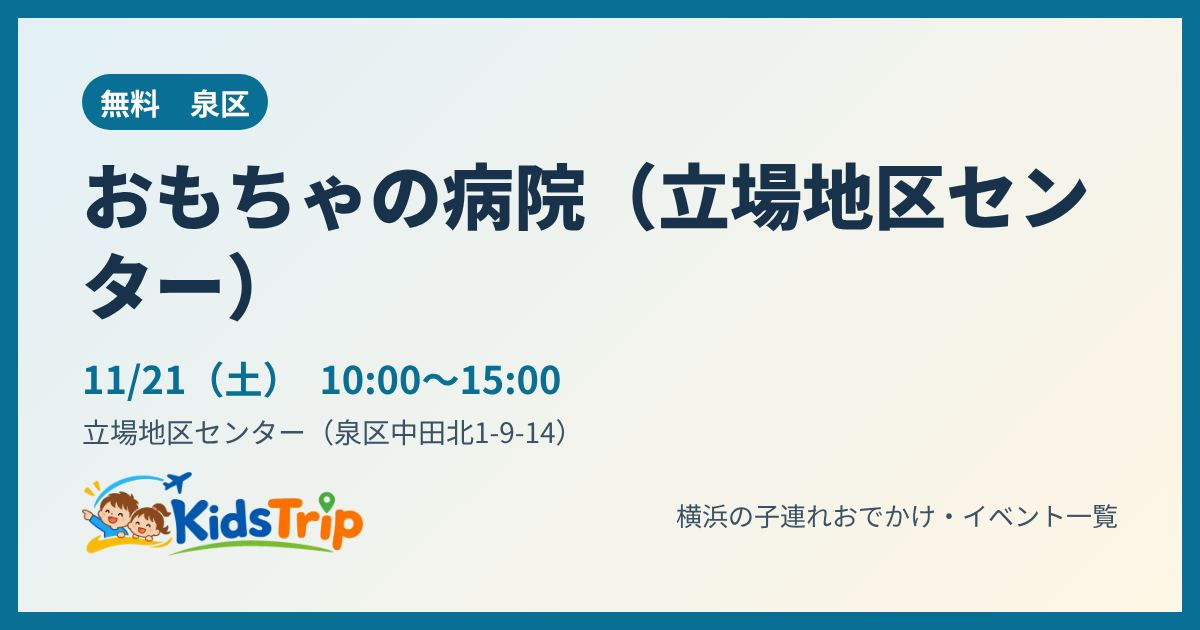
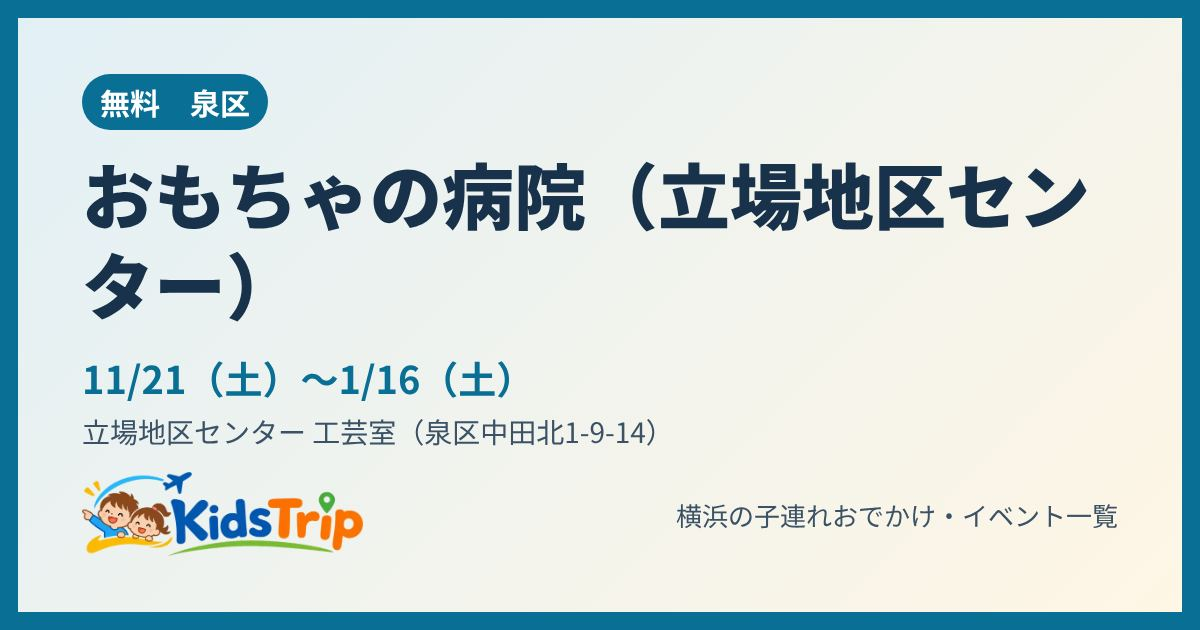
立場・本牧地区センターのイベントを利用者が送った公式の画面で確認（絵本だいすき12/17・おもちゃの病院1/16を追加、本牧まつりのプログラム）
Claude-Session: https://claude.ai/code/session_014AtJ2gk8Y7wNUEGdkodLXj

Changed region(s): [[0.2467, 0.6635, 0.555, 0.7238], [0.2467, 0.573, 0.4625, 0.6333]]

diff --git a/event/18agcb5/index.html b/event/18agcb5/index.html
@@ -4,24 +4,24 @@
 <meta charset="utf-8">
 <meta name="viewport" content="width=device-width, initial-scale=1">
 <title>おもちゃの病院（立場地区センター）（泉区）｜横浜の子連れイベント｜KidsTrip</title>
-<meta name="description" content="11月21日(土)　立場地区センター（泉区中田北1-9-14）。こわれたおもちゃを、おもちゃドクターが直してくれる日。">
+<meta name="description" content="11月21日(土)・1月16日(土)　立場地区センター 工芸室（泉区中田北1-9-14）。ボランティアのおもちゃドクターが、こわれたおもちゃを目の前で分解して、しくみを見せながら直してくれる。奇数月の第3土曜に開院。">
 <link rel="canonical" href="https://kidstrip.jp/event/18agcb5/">
 <meta property="og:type" content="article">
 <meta property="og:site_name" content="KidsTrip">
 <meta property="og:title" content="おもちゃの病院（立場地区センター）（泉区）｜横浜の子連れイベント｜KidsTrip">
-<meta property="og:description" content="11月21日(土)　立場地区センター（泉区中田北1-9-14）。こわれたおもちゃを、おもちゃドクターが直してくれる日。">
+<meta property="og:description" content="11月21日(土)・1月16日(土)　立場地区センター 工芸室（泉区中田北1-9-14）。ボランティアのおもちゃドクターが、こわれたおもちゃを目の前で分解して、しくみを見せながら直してくれる。奇数月の第3土曜に開院。">
 <meta property="og:url" content="https://kidstrip.jp/event/18agcb5/">
 <meta property="og:image" content="https://kidstrip.jp/og/18agcb5.jpg">
 <meta property="og:image:width" content="1200">
 <meta property="og:image:height" content="630">
-<meta property="og:image:alt" content="おもちゃの病院（立場地区センター）（11/21（土）・泉区）">
+<meta property="og:image:alt" content="おもちゃの病院（立場地区センター）（11/21（土）〜1/16（土）・泉区）">
 <meta name="twitter:card" content="summary_large_image">
 <link rel="icon" type="image/png" sizes="192x192" href="../../img/favicon-192.png">
 <link rel="icon" type="image/png" sizes="48x48" href="../../img/favicon-48.png">
 <link rel="icon" href="../../img/favicon.png">
 <link rel="apple-touch-icon" href="../../img/apple-touch-icon.png">
 <script type="application/ld+json">{"@context": "https://schema.org", "@type": "BreadcrumbList", "itemListElement": [{"@type": "ListItem", "position": 1, "name": "トップ", "item": "https://kidstrip.jp/"}, {"@type": "ListItem", "position": 2, "name": "イベント", "item": "https://kidstrip.jp/"}, {"@type": "ListItem", "position": 3, "name": "おもちゃの病院（立場地区センター）"}]}</script>
-<script type="application/ld+json">{"@context": "https://schema.org", "@type": "Event", "name": "おもちゃの病院（立場地区センター）", "startDate": "2026-11-21T10:00:00+09:00", "endDate": "2026-11-21", "eventStatus": "https://schema.org/EventScheduled", "eventAttendanceMode": "https://schema.org/OfflineEventAttendanceMode", "location": {"@type": "Place", "name": "立場地区センター（泉区中田北1-9-14）", "address": {"@type": "PostalAddress", "addressLocality": "横浜市泉区", "addressRegion": "神奈川県", "addressCountry": "JP"}}, "description": "こわれたおもちゃを、おもちゃドクターが直してくれる日。", "image": ["https://kidstrip.jp/og/18agcb5.jpg"], "url": "https://kidstrip.jp/event/18agcb5/", "isAccessibleForFree": true, "inLanguage": "ja", "offers": {"@type": "Offer", "price": 0, "priceCurrency": "JPY", "url": "https://tateba-c.com/%E3%82%A4%E3%83%99%E3%83%B3%E3%83%88%E6%A1%88%E5%86%85/", "availability": "https://schema.org/InStock"}}</script>
+<script type="application/ld+json">{"@context": "https://schema.org", "@type": "Event", "name": "おもちゃの病院（立場地区センター）", "startDate": "2026-11-21", "endDate": "2027-01-16", "eventStatus": "https://schema.org/EventScheduled", "eventAttendanceMode": "https://schema.org/OfflineEventAttendanceMode", "location": {"@type": "Place", "name": "立場地区センター 工芸室（泉区中田北1-9-14）", "address": {"@type": "PostalAddress", "addressLocality": "横浜市泉区", "addressRegion": "神奈川県", "addressCountry": "JP"}}, "description": "ボランティアのおもちゃドクターが、こわれたおもちゃを目の前で分解して、しくみを見せながら直してくれる。奇数月の第3土曜に開院。", "image": ["https://kidstrip.jp/og/18agcb5.jpg"], "url": "https://kidstrip.jp/event/18agcb5/", "isAccessibleForFree": true, "inLanguage": "ja", "offers": {"@type": "Offer", "price": 0, "priceCurrency": "JPY", "url": "https://tateba-c.com/%E3%82%A4%E3%83%99%E3%83%B3%E3%83%88%E6%A1%88%E5%86%85/", "availability": "https://schema.org/InStock"}}</script>
 <style>
 .gkcmp th[scope=row]{white-space:nowrap}.gkcmp td{font-size:.92em}
 .gk{list-style:none;padding:0}.gk li{border:1px solid #e5e5e5;border-radius:10px;padding:10px 12px;margin:8px 0;line-height:1.7}.gk h3{margin:0 0 2px;font-size:1.02em}
@@ -52,21 +52,21 @@ footer{margin:28px 0 8px;font-size:12px;color:var(--muted)}
 <h1>おもちゃの病院（立場地区センター）</h1>
 <ul class="chips"><li>無料</li><li>親子</li><li>屋内</li><li>雨でもOK</li></ul>
 <table class="info">
-<tr><th>日にち</th><td>11月21日(土)</td></tr>
-<tr><th>時間</th><td>10:00〜15:00</td></tr>
-<tr><th>場所</th><td>泉区・立場地区センター（泉区中田北1-9-14）</td></tr>
+<tr><th>日にち</th><td>11月21日(土)・1月16日(土)</td></tr>
+<tr><th>時間</th><td>10:00〜15:00（①10時〜 ②11時〜 ③13時〜 ④14時〜）</td></tr>
+<tr><th>場所</th><td>泉区・立場地区センター 工芸室（泉区中田北1-9-14）</td></tr>
 <tr><th>料金</th><td>無料（部品代がかかる場合あり）</td></tr>
 <tr><th>対象</th><td>親子</td></tr>
-<tr><th>予約</th><td>要申込（先着20組、11/20まで電話か窓口）</td></tr>
+<tr><th>予約</th><td>要予約（開院する月の前月11日から前日までに電話 045-801-5201。おもちゃは当日持ち込み）</td></tr>
 <tr><th>雨の日</th><td>雨でもOK（屋内なので雨でもOK）</td></tr>
 </table>
-<p class="sum">こわれたおもちゃを、おもちゃドクターが直してくれる日。</p>
-<p class="tip">💡 立場駅から歩いて約5分</p>
-<p class="small">情報の時点：2026年11月18日　出典：立場地区センター公式（イベント案内）</p>
+<p class="sum">ボランティアのおもちゃドクターが、こわれたおもちゃを目の前で分解して、しくみを見せながら直してくれる。奇数月の第3土曜に開院。</p>
+<p class="tip">💡 立場駅から歩いて約5分。1/16の分は12/11から予約</p>
+<p class="small">情報の時点：2026年11月21日　出典：立場地区センター公式（チラシ）（利用者が送った公式の画面・2026年11月）</p>
 <div class="btns"><a class="btn main" data-act="official" href="https://tateba-c.com/%E3%82%A4%E3%83%99%E3%83%B3%E3%83%88%E6%A1%88%E5%86%85/" target="_blank" rel="noopener">公式ページで確認</a>
 <a class="btn" href="/?e=18agcb5">一覧で見る（行き方・近くのごはん）</a>
 <button type="button" class="btn" data-share="1">🔗 リンクを送る・コピー</button>
-<a class="btn line" href="https://line.me/R/share?text=%E3%80%90%E3%81%8A%E3%82%82%E3%81%A1%E3%82%83%E3%81%AE%E7%97%85%E9%99%A2%EF%BC%88%E7%AB%8B%E5%A0%B4%E5%9C%B0%E5%8C%BA%E3%82%BB%E3%83%B3%E3%82%BF%E3%83%BC%EF%BC%89%E3%80%91%0A11%E6%9C%8821%E6%97%A5%28%E5%9C%9F%29%E3%80%8010%3A00%E3%80%9C15%3A00%0A%E5%A0%B4%E6%89%80%EF%BC%9A%E6%B3%89%E5%8C%BA%E3%83%BB%E7%AB%8B%E5%A0%B4%E5%9C%B0%E5%8C%BA%E3%82%BB%E3%83%B3%E3%82%BF%E3%83%BC%EF%BC%88%E6%B3%89%E5%8C%BA%E4%B8%AD%E7%94%B0%E5%8C%971-9-14%EF%BC%89%0Ahttps%3A//kidstrip.jp/event/18agcb5/" target="_blank" rel="noopener">LINEで送る</a></div>
+<a class="btn line" href="https://line.me/R/share?text=%E3%80%90%E3%81%8A%E3%82%82%E3%81%A1%E3%82%83%E3%81%AE%E7%97%85%E9%99%A2%EF%BC%88%E7%AB%8B%E5%A0%B4%E5%9C%B0%E5%8C%BA%E3%82%BB%E3%83%B3%E3%82%BF%E3%83%BC%EF%BC%89%E3%80%91%0A11%E6%9C%8821%E6%97%A5%28%E5%9C%9F%29%E3%83%BB1%E6%9C%8816%E6%97%A5%28%E5%9C%9F%29%E3%80%8010%3A00%E3%80%9C15%3A00%EF%BC%88%E2%91%A010%E6%99%82%E3%80%9C%20%E2%91%A111%E6%99%82%E3%80%9C%20%E2%91%A213%E6%99%82%E3%80%9C%20%E2%91%A314%E6%99%82%E3%80%9C%EF%BC%89%0A%E5%A0%B4%E6%89%80%EF%BC%9A%E6%B3%89%E5%8C%BA%E3%83%BB%E7%AB%8B%E5%A0%B4%E5%9C%B0%E5%8C%BA%E3%82%BB%E3%83%B3%E3%82%BF%E3%83%BC%20%E5%B7%A5%E8%8A%B8%E5%AE%A4%EF%BC%88%E6%B3%89%E5%8C%BA%E4%B8%AD%E7%94%B0%E5%8C%971-9-14%EF%BC%89%0Ahttps%3A//kidstrip.jp/event/18agcb5/" target="_blank" rel="noopener">LINEで送る</a></div>
 </article>
 
 

diff --git a/event/idfs1o/index.html b/event/idfs1o/index.html
@@ -4,24 +4,24 @@
 <meta charset="utf-8">
 <meta name="viewport" content="width=device-width, initial-scale=1">
 <title>絵本だいすき！読み聞かせ（立場地区センター）（泉区）｜横浜の子連れイベント｜KidsTrip</title>
-<meta name="description" content="11月26日(木)　立場地区センター（泉区中田北1-9-14）。未就学児と保護者向けの絵本の読み聞かせ。">
+<meta name="description" content="11月26日(木)・12月17日(木)　立場地区センター 和室（泉区中田北1-9-14）。「お話し会MAY」のみなさんによる絵本の読み聞かせ。毎月第4木曜（12月は第3木曜の12/17）に開かれる。">
 <link rel="canonical" href="https://kidstrip.jp/event/idfs1o/">
 <meta property="og:type" content="article">
 <meta property="og:site_name" content="KidsTrip">
 <meta property="og:title" content="絵本だいすき！読み聞かせ（立場地区センター）（泉区）｜横浜の子連れイベント｜KidsTrip">
-<meta property="og:description" content="11月26日(木)　立場地区センター（泉区中田北1-9-14）。未就学児と保護者向けの絵本の読み聞かせ。">
+<meta property="og:description" content="11月26日(木)・12月17日(木)　立場地区センター 和室（泉区中田北1-9-14）。「お話し会MAY」のみなさんによる絵本の読み聞かせ。毎月第4木曜（12月は第3木曜の12/17）に開かれる。">
 <meta property="og:url" content="https://kidstrip.jp/event/idfs1o/">
 <meta property="og:image" content="https://kidstrip.jp/og/idfs1o.jpg">
 <meta property="og:image:width" content="1200">
 <meta property="og:image:height" content="630">
-<meta property="og:image:alt" content="絵本だいすき！読み聞かせ（立場地区センター）（11/26（木）・泉区）">
+<meta property="og:image:alt" content="絵本だいすき！読み聞かせ（立場地区センター）（11/26（木）〜12/17（木）・泉区）">
 <meta name="twitter:card" content="summary_large_image">
 <link rel="icon" type="image/png" sizes="192x192" href="../../img/favicon-192.png">
 <link rel="icon" type="image/png" sizes="48x48" href="../../img/favicon-48.png">
 <link rel="icon" href="../../img/favicon.png">
 <link rel="apple-touch-icon" href="../../img/apple-touch-icon.png">
 <script type="application/ld+json">{"@context": "https://schema.org", "@type": "BreadcrumbList", "itemListElement": [{"@type": "ListItem", "position": 1, "name": "トップ", "item": "https://kidstrip.jp/"}, {"@type": "ListItem", "position": 2, "name": "イベント", "item": "https://kidstrip.jp/"}, {"@type": "ListItem", "position": 3, "name": "絵本だいすき！読み聞かせ（立場地区センター）"}]}</script>
-<script type="application/ld+json">{"@context": "https://schema.org", "@type": "Event", "name": "絵本だいすき！読み聞かせ（立場地区センター）", "startDate": "2026-11-26T11:00:00+09:00", "endDate": "2026-11-26", "eventStatus": "https://schema.org/EventScheduled", "eventAttendanceMode": "https://schema.org/OfflineEventAttendanceMode", "location": {"@type": "Place", "name": "立場地区センター（泉区中田北1-9-14）", "address": {"@type": "PostalAddress", "addressLocality": "横浜市泉区", "addressRegion": "神奈川県", "addressCountry": "JP"}}, "description": "未就学児と保護者向けの絵本の読み聞かせ。", "image": ["https://kidstrip.jp/og/idfs1o.jpg"], "url": "https://kidstrip.jp/event/idfs1o/", "isAccessibleForFree": true, "inLanguage": "ja", "offers": {"@type": "Offer", "price": 0, "priceCurrency": "JPY", "url": "https://tateba-c.com/%E3%82%A4%E3%83%99%E3%83%B3%E3%83%88%E6%A1%88%E5%86%85/", "availability": "https://schema.org/InStock"}}</script>
+<script type="application/ld+json">{"@context": "https://schema.org", "@type": "Event", "name": "絵本だいすき！読み聞かせ（立場地区センター）", "startDate": "2026-11-26", "endDate": "2026-12-17", "eventStatus": "https://schema.org/EventScheduled", "eventAttendanceMode": "https://schema.org/OfflineEventAttendanceMode", "location": {"@type": "Place", "name": "立場地区センター 和室（泉区中田北1-9-14）", "address": {"@type": "PostalAddress", "addressLocality": "横浜市泉区", "addressRegion": "神奈川県", "addressCountry": "JP"}}, "description": "「お話し会MAY」のみなさんによる絵本の読み聞かせ。毎月第4木曜（12月は第3木曜の12/17）に開かれる。", "image": ["https://kidstrip.jp/og/idfs1o.jpg"], "url": "https://kidstrip.jp/event/idfs1o/", "isAccessibleForFree": true, "inLanguage": "ja", "offers": {"@type": "Offer", "price": 0, "priceCurrency": "JPY", "url": "https://tateba-c.com/%E3%82%A4%E3%83%99%E3%83%B3%E3%83%88%E6%A1%88%E5%86%85/", "availability": "https://schema.org/InStock"}}</script>
 <style>
 .gkcmp th[scope=row]{white-space:nowrap}.gkcmp td{font-size:.92em}
 .gk{list-style:none;padding:0}.gk li{border:1px solid #e5e5e5;border-radius:10px;padding:10px 12px;margin:8px 0;line-height:1.7}.gk h3{margin:0 0 2px;font-size:1.02em}
@@ -52,21 +52,21 @@ footer{margin:28px 0 8px;font-size:12px;color:var(--muted)}
 <h1>絵本だいすき！読み聞かせ（立場地区センター）</h1>
 <ul class="chips"><li>無料</li><li>未就学児と保護者</li><li>屋内</li><li>雨でもOK</li></ul>
 <table class="info">
-<tr><th>日にち</th><td>11月26日(木)</td></tr>
+<tr><th>日にち</th><td>11月26日(木)・12月17日(木)</td></tr>
 <tr><th>時間</th><td>11:00〜11:40</td></tr>
-<tr><th>場所</th><td>泉区・立場地区センター（泉区中田北1-9-14）</td></tr>
+<tr><th>場所</th><td>泉区・立場地区センター 和室（泉区中田北1-9-14）</td></tr>
 <tr><th>料金</th><td>無料</td></tr>
 <tr><th>対象</th><td>未就学児と保護者</td></tr>
 <tr><th>予約</th><td>予約不要（当日参加、10組程度）</td></tr>
 <tr><th>雨の日</th><td>雨でもOK（屋内なので雨でもOK）</td></tr>
 </table>
-<p class="sum">未就学児と保護者向けの絵本の読み聞かせ。</p>
-<p class="tip">💡 立場駅から歩いて約5分</p>
-<p class="small">情報の時点：2026年11月18日　出典：立場地区センター公式（イベント案内）</p>
+<p class="sum">「お話し会MAY」のみなさんによる絵本の読み聞かせ。毎月第4木曜（12月は第3木曜の12/17）に開かれる。</p>
+<p class="tip">💡 立場駅から歩いて約5分。次は1/28・2/25・3/25</p>
+<p class="small">情報の時点：2026年11月21日　出典：立場地区センター公式（チラシ）（利用者が送った公式の画面・2026年11月）</p>
 <div class="btns"><a class="btn main" data-act="official" href="https://tateba-c.com/%E3%82%A4%E3%83%99%E3%83%B3%E3%83%88%E6%A1%88%E5%86%85/" target="_blank" rel="noopener">公式ページで確認</a>
 <a class="btn" href="/?e=idfs1o">一覧で見る（行き方・近くのごはん）</a>
 <button type="button" class="btn" data-share="1">🔗 リンクを送る・コピー</button>
-<a class="btn line" href="https://line.me/R/share?text=%E3%80%90%E7%B5%B5%E6%9C%AC%E3%81%A0%E3%81%84%E3%81%99%E3%81%8D%EF%BC%81%E8%AA%AD%E3%81%BF%E8%81%9E%E3%81%8B%E3%81%9B%EF%BC%88%E7%AB%8B%E5%A0%B4%E5%9C%B0%E5%8C%BA%E3%82%BB%E3%83%B3%E3%82%BF%E3%83%BC%EF%BC%89%E3%80%91%0A11%E6%9C%8826%E6%97%A5%28%E6%9C%A8%29%E3%80%8011%3A00%E3%80%9C11%3A40%0A%E5%A0%B4%E6%89%80%EF%BC%9A%E6%B3%89%E5%8C%BA%E3%83%BB%E7%AB%8B%E5%A0%B4%E5%9C%B0%E5%8C%BA%E3%82%BB%E3%83%B3%E3%82%BF%E3%83%BC%EF%BC%88%E6%B3%89%E5%8C%BA%E4%B8%AD%E7%94%B0%E5%8C%971-9-14%EF%BC%89%0Ahttps%3A//kidstrip.jp/event/idfs1o/" target="_blank" rel="noopener">LINEで送る</a></div>
+<a class="btn line" href="https://line.me/R/share?text=%E3%80%90%E7%B5%B5%E6%9C%AC%E3%81%A0%E3%81%84%E3%81%99%E3%81%8D%EF%BC%81%E8%AA%AD%E3%81%BF%E8%81%9E%E3%81%8B%E3%81%9B%EF%BC%88%E7%AB%8B%E5%A0%B4%E5%9C%B0%E5%8C%BA%E3%82%BB%E3%83%B3%E3%82%BF%E3%83%BC%EF%BC%89%E3%80%91%0A11%E6%9C%8826%E6%97%A5%28%E6%9C%A8%29%E3%83%BB12%E6%9C%8817%E6%97%A5%28%E6%9C%A8%29%E3%80%8011%3A00%E3%80%9C11%3A40%0A%E5%A0%B4%E6%89%80%EF%BC%9A%E6%B3%89%E5%8C%BA%E3%83%BB%E7%AB%8B%E5%A0%B4%E5%9C%B0%E5%8C%BA%E3%82%BB%E3%83%B3%E3%82%BF%E3%83%BC%20%E5%92%8C%E5%AE%A4%EF%BC%88%E6%B3%89%E5%8C%BA%E4%B8%AD%E7%94%B0%E5%8C%971-9-14%EF%BC%89%0Ahttps%3A//kidstrip.jp/event/idfs1o/" target="_blank" rel="noopener">LINEで送る</a></div>
 </article>
 
 

diff --git a/event/1r5tqdj/index.html b/event/1r5tqdj/index.html
@@ -4,12 +4,12 @@
 <meta charset="utf-8">
 <meta name="viewport" content="width=device-width, initial-scale=1">
 <title>マギー隆司マジック笑（立場地区センター）（泉区）｜横浜の子連れイベント｜KidsTrip</title>
-<meta name="description" content="11月23日(月)　立場地区センター（泉区中田北1-9-14）。小学生向けの、笑いのあるマジックショー。">
+<meta name="description" content="11月23日(月)　立場地区センター 和室（泉区中田北1-9-14）。マギー司郎さんの一番弟子・マギー隆司さんのお笑いマジックショー（約50分）。トークマジックやマジック体験、ふしぎなタネあかしもある。">
 <link rel="canonical" href="https://kidstrip.jp/event/1r5tqdj/">
 <meta property="og:type" content="article">
 <meta property="og:site_name" content="KidsTrip">
 <meta property="og:title" content="マギー隆司マジック笑（立場地区センター）（泉区）｜横浜の子連れイベント｜KidsTrip">
-<meta property="og:description" content="11月23日(月)　立場地区センター（泉区中田北1-9-14）。小学生向けの、笑いのあるマジックショー。">
+<meta property="og:description" content="11月23日(月)　立場地区センター 和室（泉区中田北1-9-14）。マギー司郎さんの一番弟子・マギー隆司さんのお笑いマジックショー（約50分）。トークマジックやマジック体験、ふしぎなタネあかしもある。">
 <meta property="og:url" content="https://kidstrip.jp/event/1r5tqdj/">
 <meta property="og:image" content="https://kidstrip.jp/og/1r5tqdj.jpg">
 <meta property="og:image:width" content="1200">
@@ -21,7 +21,7 @@
 <link rel="icon" href="../../img/favicon.png">
 <link rel="apple-touch-icon" href="../../img/apple-touch-icon.png">
 <script type="application/ld+json">{"@context": "https://schema.org", "@type": "BreadcrumbList", "itemListElement": [{"@type": "ListItem", "position": 1, "name": "トップ", "item": "https://kidstrip.jp/"}, {"@type": "ListItem", "position": 2, "name": "イベント", "item": "https://kidstrip.jp/"}, {"@type": "ListItem", "position": 3, "name": "マギー隆司マジック笑（立場地区センター）"}]}</script>
-<script type="application/ld+json">{"@context": "https://schema.org", "@type": "Event", "name": "マギー隆司マジック笑（立場地区センター）", "startDate": "2026-11-23T11:00:00+09:00", "endDate": "2026-11-23", "eventStatus": "https://schema.org/EventScheduled", "eventAttendanceMode": "https://schema.org/OfflineEventAttendanceMode", "location": {"@type": "Place", "name": "立場地区センター（泉区中田北1-9-14）", "address": {"@type": "PostalAddress", "addressLocality": "横浜市泉区", "addressRegion": "神奈川県", "addressCountry": "JP"}}, "description": "小学生向けの、笑いのあるマジックショー。", "image": ["https://kidstrip.jp/og/1r5tqdj.jpg"], "url": "https://kidstrip.jp/event/1r5tqdj/", "isAccessibleForFree": true, "inLanguage": "ja", "offers": {"@type": "Offer", "price": 0, "priceCurrency": "JPY", "url": "https://tateba-c.com/%E3%82%A4%E3%83%99%E3%83%B3%E3%83%88%E6%A1%88%E5%86%85/", "availability": "https://schema.org/InStock"}}</script>
+<script type="application/ld+json">{"@context": "https://schema.org", "@type": "Event", "name": "マギー隆司マジック笑（立場地区センター）", "startDate": "2026-11-23T11:00:00+09:00", "endDate": "2026-11-23", "eventStatus": "https://schema.org/EventScheduled", "eventAttendanceMode": "https://schema.org/OfflineEventAttendanceMode", "location": {"@type": "Place", "name": "立場地区センター 和室（泉区中田北1-9-14）", "address": {"@type": "PostalAddress", "addressLocality": "横浜市泉区", "addressRegion": "神奈川県", "addressCountry": "JP"}}, "description": "マギー司郎さんの一番弟子・マギー隆司さんのお笑いマジックショー（約50分）。トークマジックやマジック体験、ふしぎなタネあかしもある。", "image": ["https://kidstrip.jp/og/1r5tqdj.jpg"], "url": "https://kidstrip.jp/event/1r5tqdj/", "isAccessibleForFree": true, "inLanguage": "ja", "offers": {"@type": "Offer", "price": 0, "priceCurrency": "JPY", "url": "https://tateba-c.com/%E3%82%A4%E3%83%99%E3%83%B3%E3%83%88%E6%A1%88%E5%86%85/", "availability": "https://schema.org/InStock"}}</script>
 <style>
 .gkcmp th[scope=row]{white-space:nowrap}.gkcmp td{font-size:.92em}
 .gk{list-style:none;padding:0}.gk li{border:1px solid #e5e5e5;border-radius:10px;padding:10px 12px;margin:8px 0;line-height:1.7}.gk h3{margin:0 0 2px;font-size:1.02em}
@@ -54,19 +54,19 @@ footer{margin:28px 0 8px;font-size:12px;color:var(--muted)}
 <table class="info">
 <tr><th>日にち</th><td>11月23日(月)</td></tr>
 <tr><th>時間</th><td>11:00〜11:50</td></tr>
-<tr><th>場所</th><td>泉区・立場地区センター（泉区中田北1-9-14）</td></tr>
+<tr><th>場所</th><td>泉区・立場地区センター 和室（泉区中田北1-9-14）</td></tr>
 <tr><th>料金</th><td>無料</td></tr>
 <tr><th>対象</th><td>小学生</td></tr>
 <tr><th>予約</th><td>要申込（50人、11/11から電話か窓口）</td></tr>
 <tr><th>雨の日</th><td>雨でもOK（屋内なので雨でもOK）</td></tr>
 </table>
-<p class="sum">小学生向けの、笑いのあるマジックショー。</p>
+<p class="sum">マギー司郎さんの一番弟子・マギー隆司さんのお笑いマジックショー（約50分）。トークマジックやマジック体験、ふしぎなタネあかしもある。</p>
 <p class="tip">💡 立場駅から歩いて約5分</p>
-<p class="small">情報の時点：2026年11月18日　出典：立場地区センター公式（イベント案内）</p>
+<p class="small">情報の時点：2026年11月21日　出典：立場地区センター公式（チラシ）（利用者が送った公式の画面・2026年11月）</p>
 <div class="btns"><a class="btn main" data-act="official" href="https://tateba-c.com/%E3%82%A4%E3%83%99%E3%83%B3%E3%83%88%E6%A1%88%E5%86%85/" target="_blank" rel="noopener">公式ページで確認</a>
 <a class="btn" href="/?e=1r5tqdj">一覧で見る（行き方・近くのごはん）</a>
 <button type="button" class="btn" data-share="1">🔗 リンクを送る・コピー</button>
-<a class="btn line" href="https://line.me/R/share?text=%E3%80%90%E3%83%9E%E3%82%AE%E3%83%BC%E9%9A%86%E5%8F%B8%E3%83%9E%E3%82%B8%E3%83%83%E3%82%AF%E7%AC%91%EF%BC%88%E7%AB%8B%E5%A0%B4%E5%9C%B0%E5%8C%BA%E3%82%BB%E3%83%B3%E3%82%BF%E3%83%BC%EF%BC%89%E3%80%91%0A11%E6%9C%8823%E6%97%A5%28%E6%9C%88%29%E3%80%8011%3A00%E3%80%9C11%3A50%0A%E5%A0%B4%E6%89%80%EF%BC%9A%E6%B3%89%E5%8C%BA%E3%83%BB%E7%AB%8B%E5%A0%B4%E5%9C%B0%E5%8C%BA%E3%82%BB%E3%83%B3%E3%82%BF%E3%83%BC%EF%BC%88%E6%B3%89%E5%8C%BA%E4%B8%AD%E7%94%B0%E5%8C%971-9-14%EF%BC%89%0Ahttps%3A//kidstrip.jp/event/1r5tqdj/" target="_blank" rel="noopener">LINEで送る</a></div>
+<a class="btn line" href="https://line.me/R/share?text=%E3%80%90%E3%83%9E%E3%82%AE%E3%83%BC%E9%9A%86%E5%8F%B8%E3%83%9E%E3%82%B8%E3%83%83%E3%82%AF%E7%AC%91%EF%BC%88%E7%AB%8B%E5%A0%B4%E5%9C%B0%E5%8C%BA%E3%82%BB%E3%83%B3%E3%82%BF%E3%83%BC%EF%BC%89%E3%80%91%0A11%E6%9C%8823%E6%97%A5%28%E6%9C%88%29%E3%80%8011%3A00%E3%80%9C11%3A50%0A%E5%A0%B4%E6%89%80%EF%BC%9A%E6%B3%89%E5%8C%BA%E3%83%BB%E7%AB%8B%E5%A0%B4%E5%9C%B0%E5%8C%BA%E3%82%BB%E3%83%B3%E3%82%BF%E3%83%BC%20%E5%92%8C%E5%AE%A4%EF%BC%88%E6%B3%89%E5%8C%BA%E4%B8%AD%E7%94%B0%E5%8C%971-9-14%EF%BC%89%0Ahttps%3A//kidstrip.jp/event/1r5tqdj/" target="_blank" rel="noopener">LINEで送る</a></div>
 </article>
 
 

diff --git a/event/w80fqr/index.html b/event/w80fqr/index.html
@@ -4,12 +4,12 @@
 <meta charset="utf-8">
 <meta name="viewport" content="width=device-width, initial-scale=1">
 <title>本牧地区センターまつり（子ども縁日）（中区）｜横浜の子連れイベント｜KidsTrip</title>
-<meta name="description" content="11月23日(月)　本牧地区センター（中区本牧原16-1）。ロビーで子ども縁日（さかな釣り・輪投げなど）、体育室でステージ発表、ママコーナーもある地区センターのおまつり。">
+<meta name="description" content="11月23日(月)　本牧地区センター（中区本牧原16-1）。ロビーで子ども縁日（つりぼり・わなげ・ボールをポンなど）とフォトスポット、体育室でステージ発表・フリーマーケット・ママコーナー、ピロティーで三浦野菜と花苗の販売がある地区センターの">
 <link rel="canonical" href="https://kidstrip.jp/event/w80fqr/">
 <meta property="og:type" content="article">
 <meta property="og:site_name" content="KidsTrip">
 <meta property="og:title" content="本牧地区センターまつり（子ども縁日）（中区）｜横浜の子連れイベント｜KidsTrip">
-<meta property="og:description" content="11月23日(月)　本牧地区センター（中区本牧原16-1）。ロビーで子ども縁日（さかな釣り・輪投げなど）、体育室でステージ発表、ママコーナーもある地区センターのおまつり。">
+<meta property="og:description" content="11月23日(月)　本牧地区センター（中区本牧原16-1）。ロビーで子ども縁日（つりぼり・わなげ・ボールをポンなど）とフォトスポット、体育室でステージ発表・フリーマーケット・ママコーナー、ピロティーで三浦野菜と花苗の販売がある地区センターの">
 <meta property="og:url" content="https://kidstrip.jp/event/w80fqr/">
 <meta property="og:image" content="https://kidstrip.jp/og/w80fqr.jpg">
 <meta property="og:image:width" content="1200">
@@ -21,7 +21,7 @@
 <link rel="icon" href="../../img/favicon.png">
 <link rel="apple-touch-icon" href="../../img/apple-touch-icon.png">
 <script type="application/ld+json">{"@context": "https://schema.org", "@type": "BreadcrumbList", "itemListElement": [{"@type": "ListItem", "position": 1, "name": "トップ", "item": "https://kidstrip.jp/"}, {"@type": "ListItem", "position": 2, "name": "イベント", "item": "https://kidstrip.jp/"}, {"@type": "ListItem", "position": 3, "name": "本牧地区センターまつり（子ども縁日）"}]}</script>
-<script type="application/ld+json">{"@context": "https://schema.org", "@type": "Event", "name": "本牧地区センターまつり（子ども縁日）", "startDate": "2026-11-23T10:00:00+09:00", "endDate": "2026-11-23", "eventStatus": "https://schema.org/EventScheduled", "eventAttendanceMode": "https://schema.org/OfflineEventAttendanceMode", "location": {"@type": "Place", "name": "本牧地区センター（中区本牧原16-1）", "address": {"@type": "PostalAddress", "addressLocality": "横浜市中区", "addressRegion": "神奈川県", "addressCountry": "JP"}}, "description": "ロビーで子ども縁日（さかな釣り・輪投げなど）、体育室でステージ発表、ママコーナーもある地区センターのおまつり。", "image": ["https://kidstrip.jp/og/w80fqr.jpg"], "url": "https://kidstrip.jp/event/w80fqr/", "isAccessibleForFree": false, "inLanguage": "ja"}</script>
+<script type="application/ld+json">{"@context": "https://schema.org", "@type": "Event", "name": "本牧地区センターまつり（子ども縁日）", "startDate": "2026-11-23T10:00:00+09:00", "endDate": "2026-11-23", "eventStatus": "https://schema.org/EventScheduled", "eventAttendanceMode": "https://schema.org/OfflineEventAttendanceMode", "location": {"@type": "Place", "name": "本牧地区センター（中区本牧原16-1）", "address": {"@type": "PostalAddress", "addressLocality": "横浜市中区", "addressRegion": "神奈川県", "addressCountry": "JP"}}, "description": "ロビーで子ども縁日（つりぼり・わなげ・ボールをポンなど）とフォトスポット、体育室でステージ発表・フリーマーケット・ママコーナー、ピロティーで三浦野菜と花苗の販売がある地区センターのおまつり。", "image": ["https://kidstrip.jp/og/w80fqr.jpg"], "url": "https://kidstrip.jp/event/w80fqr/", "isAccessibleForFree": false, "inLanguage": "ja"}</script>
 <style>
 .gkcmp th[scope=row]{white-space:nowrap}.gkcmp td{font-size:.92em}
 .gk{list-style:none;padding:0}.gk li{border:1px solid #e5e5e5;border-radius:10px;padding:10px 12px;margin:8px 0;line-height:1.7}.gk h3{margin:0 0 2px;font-size:1.02em}
@@ -60,9 +60,9 @@ footer{margin:28px 0 8px;font-size:12px;color:var(--muted)}
 <tr><th>予約</th><td>公式ページに記載なし</td></tr>
 <tr><th>雨の日</th><td>雨でもOK（屋内なので雨でもOK）</td></tr>
 </table>
-<p class="sum">ロビーで子ども縁日（さかな釣り・輪投げなど）、体育室でステージ発表、ママコーナーもある地区センターのおまつり。</p>
-<p class="tip">💡 くわしい案内は11月初めに出る予定とされている。車では来ないように。</p>
-<p class="small">情報の時点：2026年11月17日　出典：本牧地区センター公式（講座・イベント 11月）</p>
+<p class="sum">ロビーで子ども縁日（つりぼり・わなげ・ボールをポンなど）とフォトスポット、体育室でステージ発表・フリーマーケット・ママコーナー、ピロティーで三浦野菜と花苗の販売がある地区センターのおまつり。</p>
+<p class="tip">💡 ステージは10:10から。紙芝居（11:20〜）、ミュージカル「オズの魔法使い」（11:45〜）、絵本と歌とおはなし（12:25〜）、キッズダンス・親子フラ（13:25〜）など。お昼ごはんの販売は10:30ごろから。駐車場は使えない（予約者のみ）。当日はプレイルームと2階の授乳コーナーは使えない</p>
+<p class="small">情報の時点：2026年11月21日　出典：本牧地区センター公式（まつりのお知らせ・チラシ）（利用者が送った公式の画面・2026年11月）</p>
 <div class="btns"><a class="btn main" data-act="official" href="https://www.honmoku-ac-seikosha.com/event/event.php?year=2026&amp;month=11" target="_blank" rel="noopener">公式ページで確認</a>
 <a class="btn" href="/?e=w80fqr">一覧で見る（行き方・近くのごはん）</a>
 <button type="button" class="btn" data-share="1">🔗 リンクを送る・コピー</button>

diff --git a/event/w62d5a/index.html b/event/w62d5a/index.html
@@ -74,7 +74,7 @@ footer{margin:28px 0 8px;font-size:12px;color:var(--muted)}
 
 
 <h2>西区の無料で遊べる場所（雨の日は屋内から）</h2><ul class="links"><li><a href="/event/11r4wif/">MARK IS みなとみらい 3階「おやこの森」（無料キッズスペース）</a>（屋内）</li><li><a href="/event/fi4kvf/">のげやま子ども図書館「おやこフロア」（ねころべる絵本の部屋）</a>（屋内）</li><li><a href="/event/dvajzg/">スマイル・ポート（西区の地域子育て支援拠点）</a>（屋内）</li><li><a href="/event/rp9cxz/">京急ミュージアム（本物の電車・ジオラマ・運転シミュレーター）</a>（屋内）</li><li><a href="/event/1gn9jwt/">境之谷公園こどもログハウス「ちびっことりで」（西区）</a>（屋内）</li><li><a href="/event/6udv5h/">日産グローバル本社ギャラリー（車の展示）</a>（屋内）</li><li><a href="/event/x8q74w/">横浜アンパンマンこどもミュージアム 1階モール（無料エリア）</a>（屋内）</li><li><a href="/event/10inafq/">横浜美術館「じゆうエリア」（無料・親子で絵本の「くつぬぎスポット」）</a>（屋内）</li></ul>
-<h2>1月16日(土)に開かれるほかの親子イベント</h2><ul class="links"><li><a href="/event/14395q9/">おはなしのへや（能見台地区センター）</a>（金沢区）</li><li><a href="/event/f5n1ze/">こども科学捜査・体験教室（磯子センター）</a>（磯子区）</li><li><a href="/event/oc32ky/">しらとり台公園プレイパーク（青葉区）</a>（青葉区）</li><li><a href="/event/1pl3v1l/">三保ねんじゅ坂プレイパーク（緑区）</a>（緑区）</li><li><a href="/event/3o5gtz/">港南台生き生きプレイパーク（港南区）</a>（港南区）</li><li><a href="/event/189htdg/">片倉うさぎ山プレイパーク（神奈川区）</a>（神奈川区）</li></ul>
+<h2>1月16日(土)に開かれるほかの親子イベント</h2><ul class="links"><li><a href="/event/14395q9/">おはなしのへや（能見台地区センター）</a>（金沢区）</li><li><a href="/event/18agcb5/">おもちゃの病院（立場地区センター）</a>（泉区）</li><li><a href="/event/f5n1ze/">こども科学捜査・体験教室（磯子センター）</a>（磯子区）</li><li><a href="/event/oc32ky/">しらとり台公園プレイパーク（青葉区）</a>（青葉区）</li><li><a href="/event/1pl3v1l/">三保ねんじゅ坂プレイパーク（緑区）</a>（緑区）</li><li><a href="/event/3o5gtz/">港南台生き生きプレイパーク（港南区）</a>（港南区）</li><li><a href="/event/189htdg/">片倉うさぎ山プレイパーク（神奈川区）</a>（神奈川区）</li></ul>
 
 
 <footer><p>KidsTrip（キッズトリップ）横浜の子連れおでかけ・イベント一覧。施設・主催者の公式情報などをもとに要約しています。内容は変わることがあるので、出かける前に必ず公式ページで確認してください。</p>

diff --git a/event/16hcyb3/index.html b/event/16hcyb3/index.html
@@ -62,7 +62,7 @@ footer{margin:28px 0 8px;font-size:12px;color:var(--muted)}
 </table>
 <p class="sum">動かなくなったおもちゃを直してもらえる。</p>
 <p class="tip">💡 バス停「本牧原」から歩いて約3分。</p>
-<p class="small">情報の時点：2026年11月17日　出典：本牧地区センター公式（講座・イベント 11月）</p>
+<p class="small">情報の時点：2026年11月21日　出典：本牧地区センター公式（講座・イベント 11月）（利用者が送った公式の画面・2026年11月）</p>
 <div class="btns"><a class="btn main" data-act="official" href="https://www.honmoku-ac-seikosha.com/event/event.php?year=2026&amp;month=11" target="_blank" rel="noopener">公式ページで確認</a>
 <a class="btn" href="/?e=16hcyb3">一覧で見る（行き方・近くのごはん）</a>
 <button type="button" class="btn" data-share="1">🔗 リンクを送る・コピー</button>

diff --git a/index.html b/index.html
@@ -753,7 +753,7 @@ section[id], div[id="events"] { scroll-margin-top: 56px; }
   </footer>
 </div>
 
-<script src="js/data.js?v=2d63c52b53" defer></script>
+<script src="js/data.js?v=1cbc104434" defer></script>
 <script src="js/app.js?v=d8213d59e8" defer></script>
 </body>
 </html>

diff --git a/tools/runs.md b/tools/runs.md
@@ -32,3 +32,4 @@
 | 2026-11-21 | 利用者との作業 | 13:48〜13:48 | 4 | 根岸地区センター「しあわせベビーヨガ」（11/26・12/24）を利用者が送った公式の画面から追加し、候補から消す |
 | 2026-11-21 | 利用者との作業 | 13:51〜13:51 | 2 | 市場探検隊（11/21）を利用者が送った観光サイトの画面で確認し asof を更新 |
 | 2026-11-21 | 利用者との作業 | 13:52〜13:52 | 5 | Google検索にアイコンが出るよう、48の倍数（48・96・192px）のファビコンを作って全ページの head に追加 |
+| 2026-11-21 | 利用者との作業 | 14:33〜14:34 | 6 | 立場地区センター3件（絵本だいすきに12/17、おもちゃの病院に1/16を追加）と本牧地区センター2件（まつりのプログラム）を利用者が送った公式の画面で確認・更新 |
